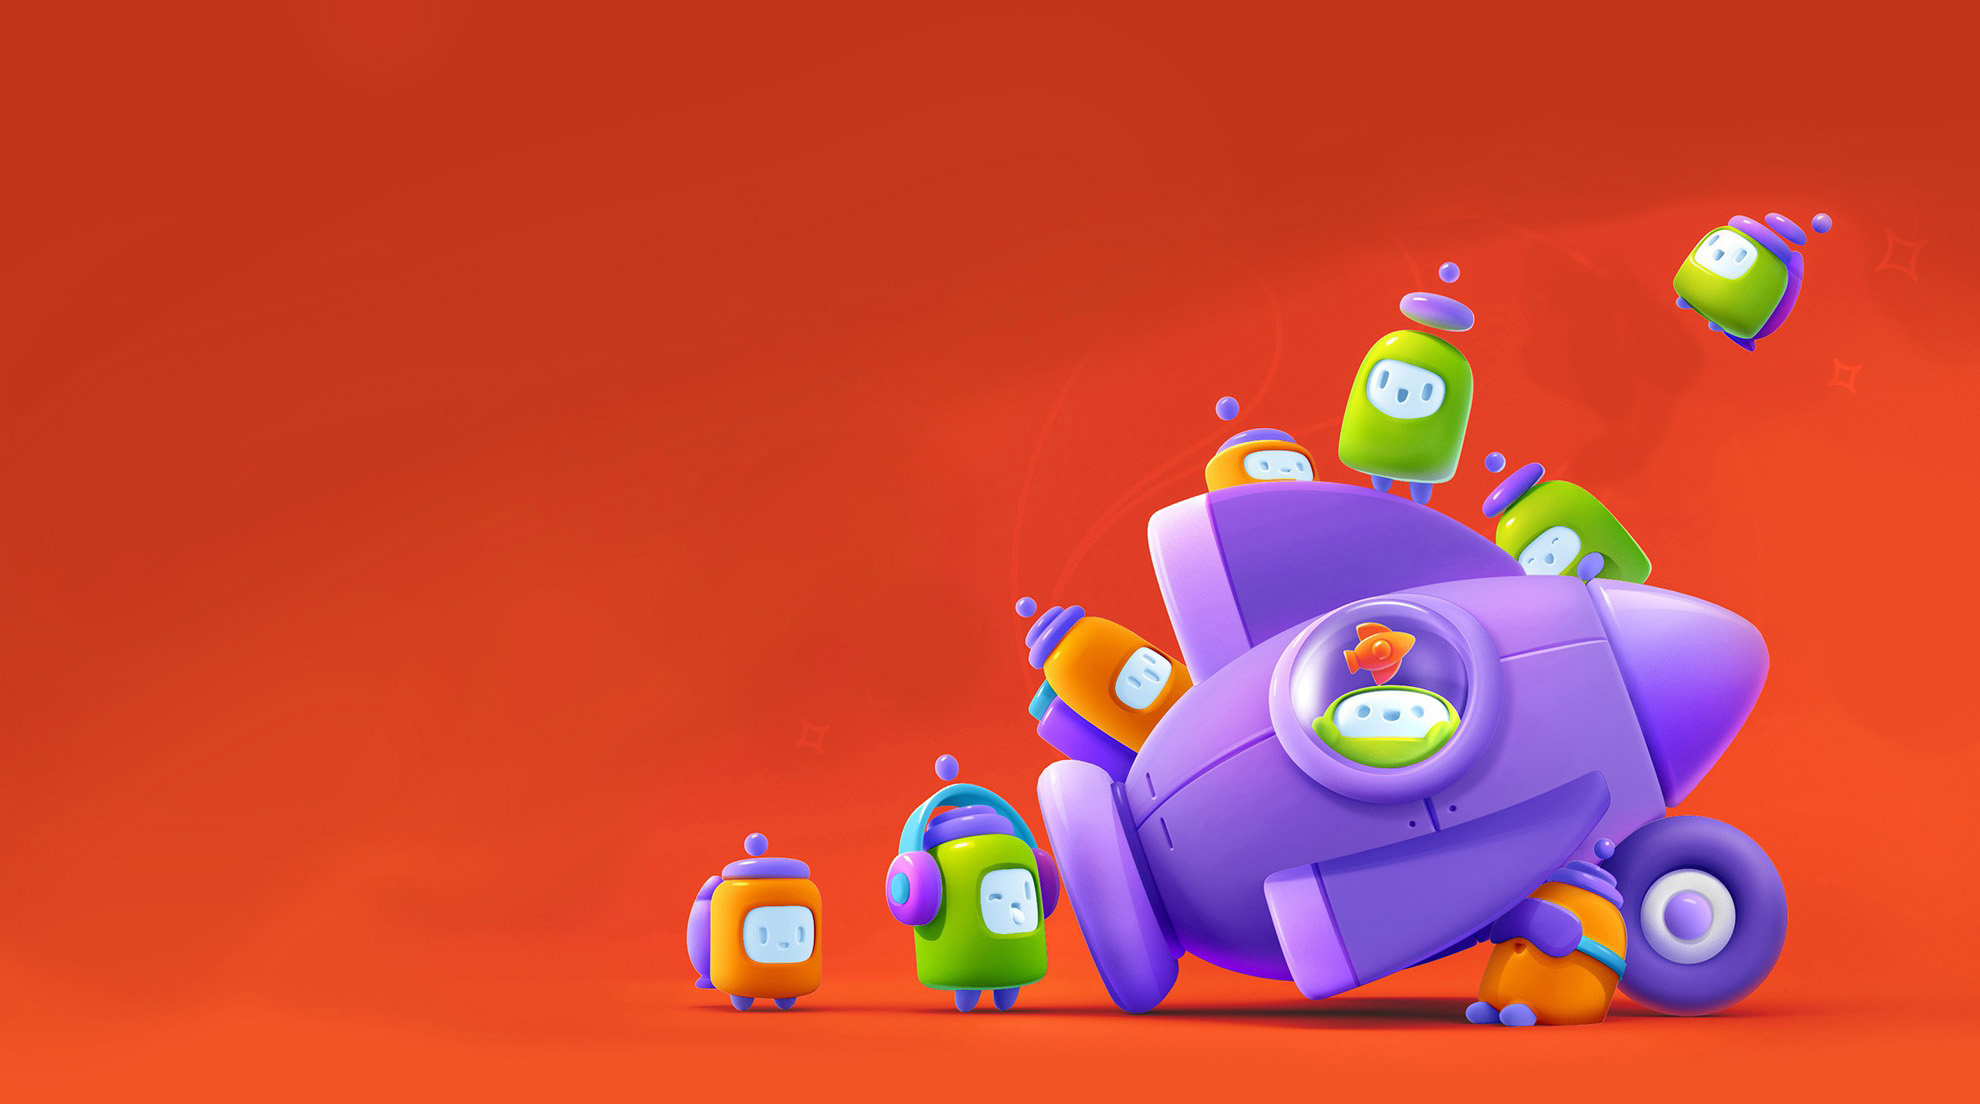
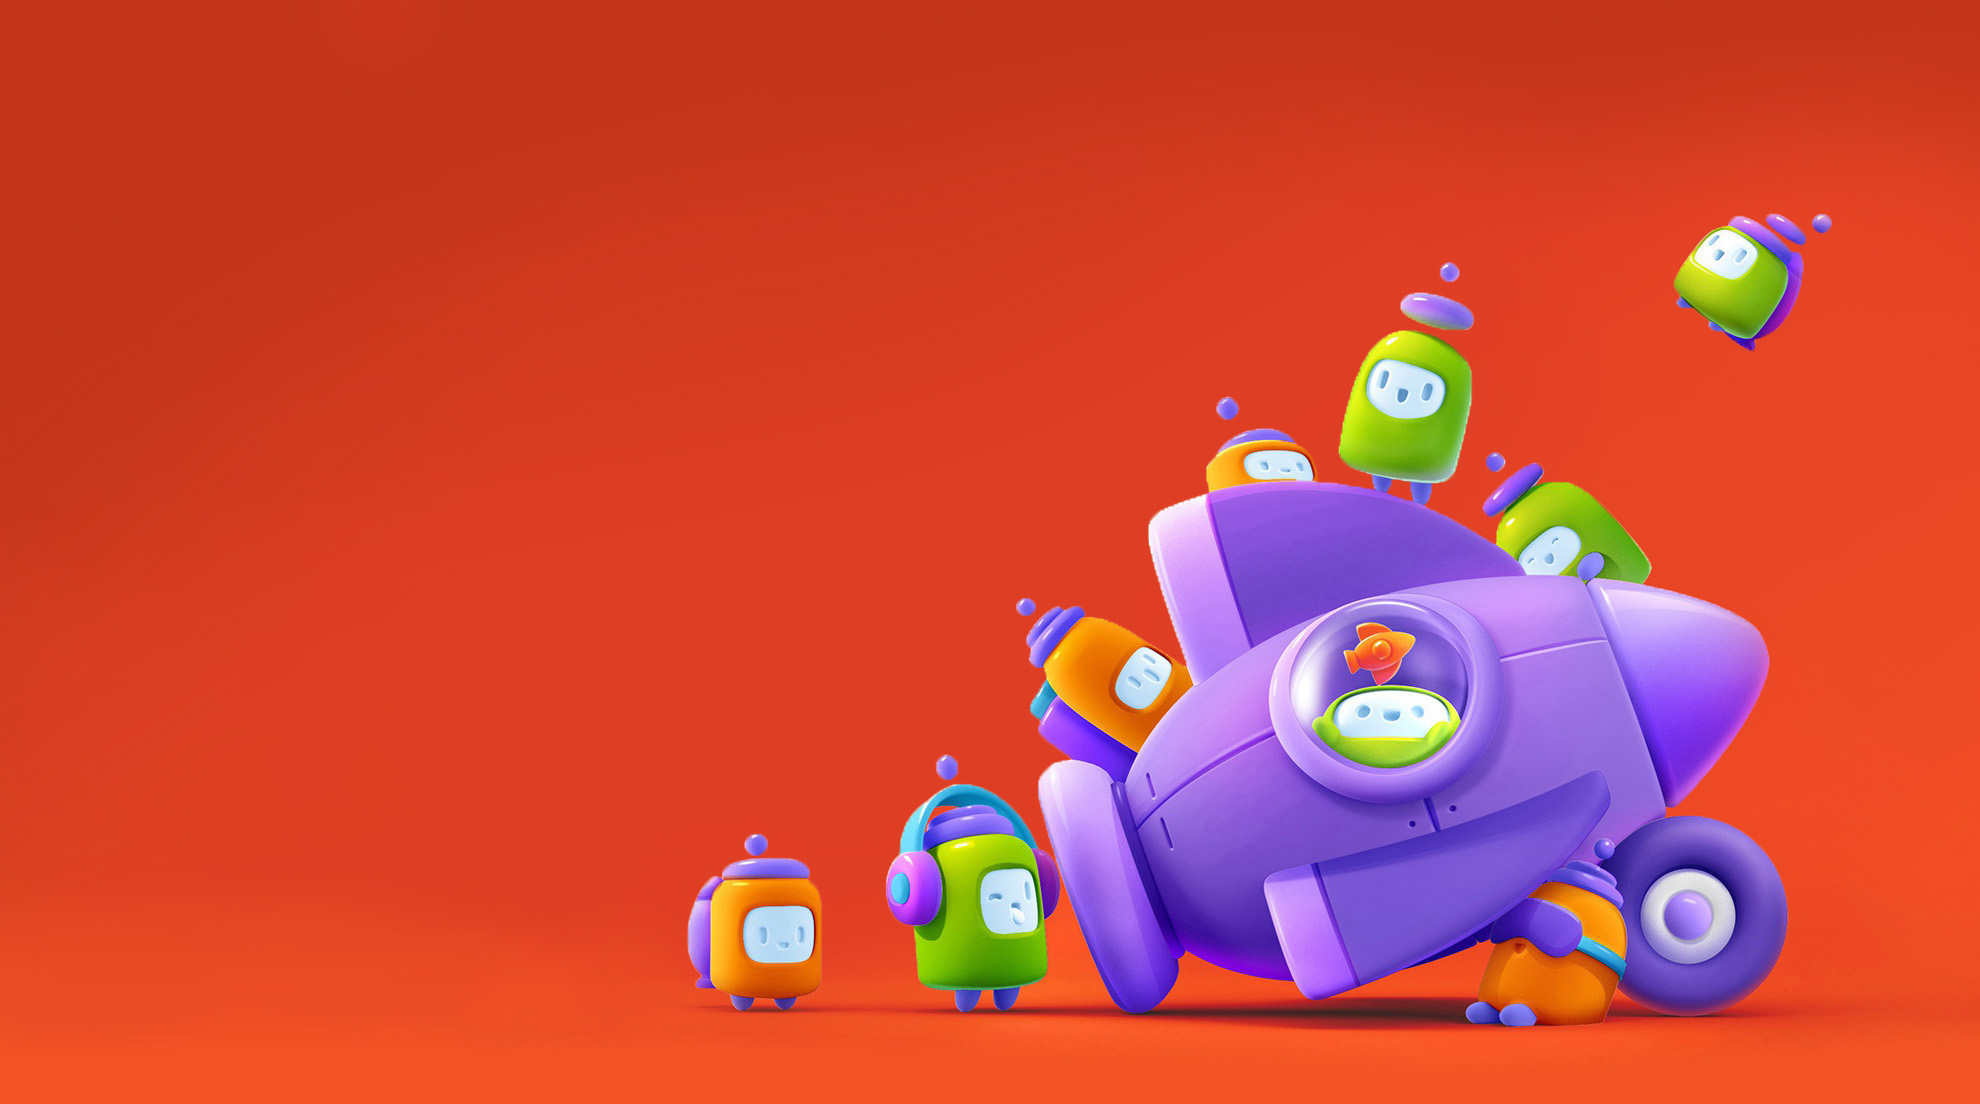
super responsive and showcase image edited

diff --git a/index.html b/index.html
@@ -110,8 +110,10 @@
           <a target="_blank" href="https://raihanahmad.netlify.com/" class="btn"><i class="fas fa-caret-left"></i></a>
         </div>
       </div>
-      <a target="_blank" href="https://raihanahmad.netlify.com/" class="btn btn-reviews">All Reviews <i
-          class="fas fa-caret-right"></i></a>
+      <div id="review-btn-div">
+        <a target="_blank" href="https://raihanahmad.netlify.com/" class="btn btn-reviews">All Reviews <i
+            class="fas fa-caret-right"></i></a>
+      </div>
     </div>
   </section>
 
@@ -139,15 +141,15 @@
           </div>
           <div>
             <p>March 31, 2020</p>
-            <p>Tinventore erferendis officia aliquid Temporibus veritatis.</p>
+            <p>Perferendis temporibus fficia aliquid quaerat minus inventore inventore veritatis.</p>
           </div>
           <div>
             <p>April 21, 2020</p>
-            <p>Temporibus officia perferendis aliquid inventore veritatis.</p>
+            <p>Perferendis temporibus fficia aliquid quaerat minus inventore inventore veritatis.</p>
           </div>
           <div>
             <p>May 15, 2020</p>
-            <p>Perferendis temporibus fficia aliquid inventore veritatis.</p>
+            <p>Perferendis temporibus fficia aliquid quaerat minus inventore inventore veritatis.</p>
           </div>
         </div>
       </div>

diff --git a/css/style.css b/css/style.css
@@ -194,8 +194,8 @@ a {
 
 /* SHOWCASE */
 #showcase {
-  margin-top: 4rem;
-  height: 100%;
+  /* margin-top: 4rem; */
+  height: 75vh;
   display: grid;
   grid-template-columns: repeat(2, 1fr);
   align-items: center;
@@ -402,7 +402,7 @@ a {
 
 #awards .container {
   height: 100%;
-  padding-top: 35%;
+  padding-top: 29rem;
 }
 
 #awards .container h2 {
@@ -509,10 +509,15 @@ a {
   padding-right: 0.09rem;
 }
 
+#review-btn-div {
+  width: 100%;
+  display: grid;
+  justify-content: center;
+  align-items: center;
+}
+
 #awards .btn-reviews {
-  margin-left: 43%;
-  margin-top: 2rem;
-  margin-bottom: 2rem;
+  margin: 3rem 0;
 }
 
 #awards .btn-reviews i {
@@ -535,7 +540,7 @@ a {
 
 #news .container {
   transform: skewY(1.5deg);
-  padding: 13% 9% 8%;
+  padding: 13rem 3rem 4rem;
   height: 100%;
 }
 
@@ -679,7 +684,7 @@ a {
 }
 
 #news .container .all-news-btn {
-  padding-top: 7%;
+  padding-top: 4rem;
   width: 100%;
   text-align: center;
 }
@@ -698,8 +703,11 @@ a {
 
 #contact .container {
   height: 100%;
-  padding-top: 15%;
+  /* padding-top: 15%; */
   perspective: 1000px;
+  display: grid;
+  justify-content: center;
+  align-items: center;
 }
 
 /* down card just for shap */

diff --git a/css/mobile.css b/css/mobile.css
@@ -25,8 +25,8 @@
 
 /* SHOWCASE */
 #showcase {
-  margin-top: 15%;
-  margin-left: 10%;
+  margin-top: -10rem;
+  margin-left: 6rem;
   margin-right: 30%;
   display: grid;
   grid-template-columns: repeat(1, 1fr);
@@ -58,13 +58,13 @@
 }
 
 /********************************* AWARDS SECTION **********************************/
+
 #awards {
-  height: 100%;
-  padding-bottom: 20%;
+  height: 1050px;
 }
 
 #awards .container {
-  padding-top: 40%;
+  padding-top: 23rem;
 }
 
 .reviews-content {
@@ -78,7 +78,7 @@
 
 #news .container {
   transform: skewY(1.5deg);
-  padding: 15% 9% 11%;
+  padding: 10rem 3rem 5rem;
   height: 100%;
 }
 
@@ -120,7 +120,7 @@
 
   /* SHOWCASE */
   #showcase {
-    margin-top: 10%;
+    margin-top: -7rem;
     margin-left: 5%;
     margin-right: 30%;
   }
@@ -294,7 +294,7 @@
 
   /* SHOWCASE */
   #showcase {
-    margin-top: 2%;
+    margin-top: 0;
     margin-left: 3%;
   }
 
